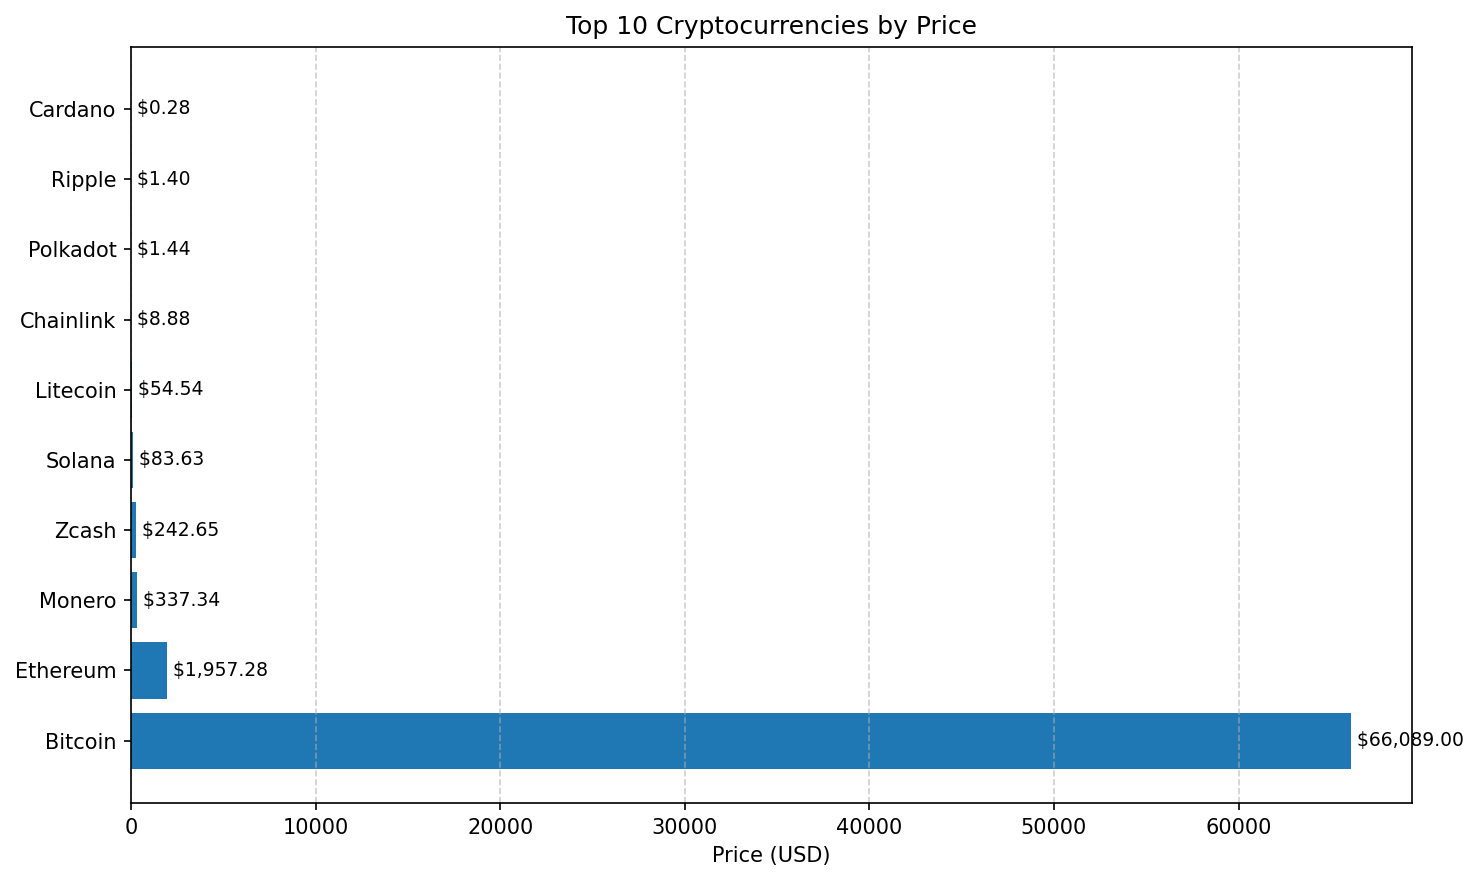
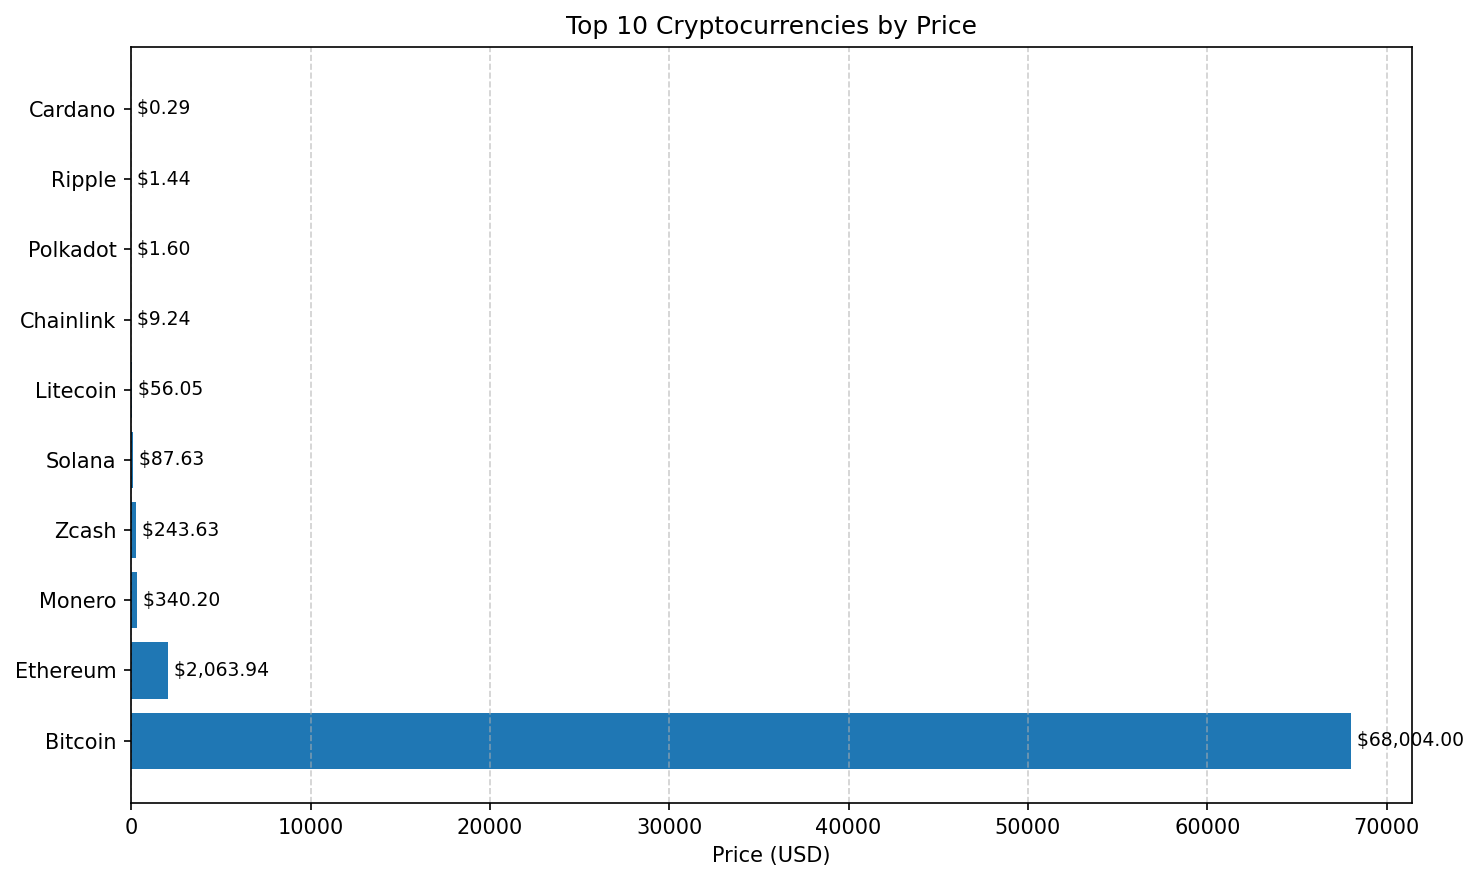
Daily crypto prices update - 2026-02-26 13:25:38 UTC

diff --git a/README.md b/README.md
@@ -50,21 +50,21 @@ The workflow is configured in `.github/workflows/daily-crypto.yml` and is schedu
 
 | Cryptocurrency | Symbol | Price (USD) | 24h Change | Price Change (vs Yesterday) | Market Cap |
 |--------------|--------|-------------|------------|---------------------------|------------|
-| Bitcoin | BITCOIN | $66,089.00 | N/A | +0.00% | N/A |
-| Ethereum | ETHEREUM | $1,957.28 | N/A | +0.00% | N/A |
-| Cardano | CARDANO | $0.28 | N/A | +0.00% | N/A |
-| Solana | SOLANA | $83.63 | N/A | +0.00% | N/A |
-| Ripple | RIPPLE | $1.40 | N/A | +0.00% | N/A |
+| Bitcoin | BITCOIN | $68,004.00 | N/A | +0.00% | N/A |
+| Ethereum | ETHEREUM | $2,063.94 | N/A | +0.00% | N/A |
+| Cardano | CARDANO | $0.29 | N/A | +0.00% | N/A |
+| Solana | SOLANA | $87.63 | N/A | +0.00% | N/A |
+| Ripple | RIPPLE | $1.44 | N/A | +0.00% | N/A |
 | Dogecoin | DOGECOIN | $0.10 | N/A | +0.00% | N/A |
-| Polkadot | POLKADOT | $1.44 | N/A | +0.00% | N/A |
-| Litecoin | LITECOIN | $54.54 | N/A | +0.00% | N/A |
-| Chainlink | CHAINLINK | $8.88 | N/A | +0.00% | N/A |
+| Polkadot | POLKADOT | $1.60 | N/A | +0.00% | N/A |
+| Litecoin | LITECOIN | $56.05 | N/A | +0.00% | N/A |
+| Chainlink | CHAINLINK | $9.24 | N/A | +0.00% | N/A |
 | Stellar | STELLAR | $0.16 | N/A | +0.00% | N/A |
-| Monero | MONERO | $337.34 | N/A | +0.00% | N/A |
+| Monero | MONERO | $340.20 | N/A | +0.00% | N/A |
 | Algorand | ALGORAND | $0.09 | N/A | +0.00% | N/A |
 | VeChain | VECHAIN | $0.01 | N/A | +0.00% | N/A |
 | Ontology | ONTOLOGY | $0.04 | N/A | +0.00% | N/A |
-| Zcash | ZCASH | $242.65 | N/A | +0.00% | N/A |
+| Zcash | ZCASH | $243.63 | N/A | +0.00% | N/A |
 
-*Last updated: 2026-02-25 13:24:51 UTC*
+*Last updated: 2026-02-26 13:25:37 UTC*
 <!-- CRYPTO_PRICES_END -->
